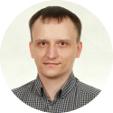
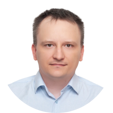
портфолио, цитаты, фотка

diff --git a/public/portfolio/portfolio.html b/public/portfolio/portfolio.html
@@ -1,0 +1,251 @@
+
+<html lang="ru">
+  <head>
+    <meta charset="UTF-8"/>
+    <meta http-equiv="x-ua-compatible" content="ie=edge"/>
+    <meta name="robots" content="all"/>
+    <meta name="viewport" content="width=device-width, initial-scale=1"/>
+    <title>Портфолио Степанова Валерия</title>
+    <link rel="shortcut icon" type="image/png" href="img/favicon_star.png"/>
+    <link rel="stylesheet" type="text/css" href="css/portfolio.css"/>
+  </head>
+  <body class="c-btstrp-clearing">
+    <header>
+      <div class="c-portfolio-nav c-portfolio-button c-portfolio-button-b" id="id-nav">
+        <ul>
+          <li><a href="#id-features"> 
+              <p>Преимущества</p></a></li>
+          <li><a href="#id-skills">
+              <p>Навыки</p></a></li>
+          <li><a href="#id-examples">
+              <p>Примеры</p></a></li>
+          <li><a href="#id-kb">
+              <p>БЗ</p></a></li>
+          <li><a href="#id-contacts">
+              <p>Контакты</p></a></li>
+        </ul>
+      </div>
+    </header>
+    <main>
+      <div class="c-portfolio-teaser-background">
+        <div class="c-btstrp-container c-btstrp-row" id="id-container-main">
+          <div class="c-portfolio-teaser-text c-portfolio-header">
+            <div class="c-portfolio-vert-align">
+              <div class="c-portfolio-teaser-img"><img src="img/stepanovv_round_thumb.png" alt="Thumbnail"/></div>
+              <h1>Портфолио Степанова Валерия
+                <p class="c-portfolio-text-b">Версия:&nbsp;<a id="id-version" target="_blank" href="https://gitlab.com/stepanovv/kbo/-/merge_requests?scope=all&amp;state=merged">DEV: Ср 22 апр 2026 14:32:20 #886eb00
+</a></p>
+              </h1>
+            </div>
+          </div>
+        </div>
+      </div>
+      <div class="c-btstrp-container">
+        <noscript>
+          <div class="c-portfolio-header-spacer"></div>
+          <div class="c-btstrp-row c-portfolio-header">
+            <div class="alert alert-danger" role="alert"><strong>Warning!</strong> Please, enable JavaScript to see correct
+                                          markup.
+            </div>
+          </div>
+        </noscript><a class="c-portfolio-anchor-offset" id="id-features"></a>
+        <section class="c-portfolio-features">
+          <div class="c-btstrp-row c-portfolio-header">
+            <h2 class="c-portfolio-spacer-l1">Мои преимущества:</h2>
+          </div>
+          <div class="c-btstrp-row c-portfolio-features-list c-portfolio-text-b">
+            <ul>
+                          <li><i class="icon-handshake-o"></i>
+                            <p>люблю помогать коллегам, обмениваться опытом</p>
+                          </li>
+                          <li><i class="icon-heart"></i>
+                            <p>приятен в общении, серьёзный опыт экстремального спорта и активных увлечений</p>
+                          </li>
+                          <li><i class="icon-sitemap"></i>
+                            <p>умею изобретать, анализировать и проектировать, использую системное мышление</p>
+                          </li>
+                          <li>
+                            <svg class="icon">
+                              <use href="img/git-square.svg#icon-git-square"></use>
+                            </svg>
+                            <p>пишу статьи в блоге и классную документацию, создаю и развиваю онлайн сообщества</p>
+                          </li>
+                          <li><i class="icon-comments"></i>
+                            <p>грамотная устная и письменная русская речь, upper-intermediate(B2) speaking english level</p>
+                          </li>
+                          <li><i class="icon-line-chart"></i>
+                            <p>постоянно учусь: математика/LLM, аналитика/продукт, software development, architecture/devops</p>
+                          </li>
+                          <li><i class="icon-gears"></i>
+                            <p>более 10 лет работы в ИТ: проектирование, разработка, внедрение/интеграция, сопровождение</p>
+                          </li>
+            </ul>
+          </div>
+          <div class="c-portfolio-divider"></div>
+        </section><a class="c-portfolio-anchor-offset" id="id-skills"></a>
+        <section class="c-portfolio-skills">
+          <div class="c-btstrp-row c-portfolio-header">
+            <h2 class="c-portfolio-spacer-l1">Навыки:</h2>
+          </div>
+          <div class="c-btstrp-row c-portfolio-skills c-btstrp-link-clear c-portfolio-button c-portfolio-button-b">
+            <ul>
+              <li><a target="_blank" href="https://gitlab.com/stepanovv/articles-product/-/blob/master/сантех_умник/продуктовая_аналитика.md">
+                  <p>Продуктовая аналитика</p></a></li>
+              <li><a target="_blank" href="https://gitlab.com/stepanovv/articles-manager/-/blob/master/менеджмент/README.md">
+                  <p>Менеджмент</p></a></li>
+              <li><a target="_blank" href="https://gitlab.com/stepanovv/articles-product/-/blob/master/сантех_умник/финансы.md">
+                  <p>Юнит-экономика</p></a></li>
+              <li><a target="_blank" href="https://gitlab.com/stepanovv/articles-manager/-/blob/master/теория/проектирование.md">
+                  <p>Проектирование</p></a></li>
+              <li><a target="_blank" href="https://gitlab.com/stepanovv/devops-infra/-/blob/master/README.md">
+                  <p>Инфраструктура</p></a></li>
+              <li><a target="_blank" href="/kbo/#/kb/frontend/typescript">
+                  <p>TS</p></a></li>
+              <li><a target="_blank" href="https://gitlab.com/stepanovv/kbo/-/blob/master/src/app/portfolio/">
+                  <p>HTML5/PUG</p></a></li>
+              <li><a target="_blank" href="https://gitlab.com/stepanovv/kbo/-/blob/master/src/app/portfolio/portfolio.styl">
+                  <p>CSS3/LESS/STYLUS</p></a></li>
+              <li><a target="_blank" href="/kbo/#/kb/frontend/framework/angular2">
+                  <p>Angular5+</p></a></li>
+              <li><a target="_blank" href="/kbo/#/kb/frontend/git">
+                  <p>GIT</p></a></li>
+              <li><a target="_blank" href="/kbo/#/kb/backend/nodejs">
+                  <p>NodeJS</p></a></li>
+              <li><a target="_blank" href="/kbo/#/kb/frontend/framework/vue">
+                  <p>VueJS</p></a></li>
+              <li><a target="_blank" href="https://gitlab.com/stepanovv/kbo/-/blob/master/gulpfile.babel.js">
+                  <p>Gulp</p></a></li>
+              <li><a target="_blank" href="/kbo/#/kb/admin/devops?id=webpack">
+                  <p>Webpack</p></a></li>
+              <li><a target="_blank" href="/kbo/#/kb/conventions/jira">
+                  <p>JIRA</p></a></li>
+              <li><a target="_blank" href="/kbo/#/kb/admin/redmine">
+                  <p>Redmine</p></a></li>
+              <li><a target="_blank" href="https://gitlab.com/stepanovv/articles-manager/-/blob/master/менеджмент/совместная_работа.md">
+                  <p>Trello</p></a></li>
+              <li><a target="_blank" href="/kbo/#/kb/admin/bash">
+                  <p>Bash</p></a></li>
+              <li><a target="_blank" href="/kbo/#/kb/admin/docker">
+                  <p>Docker</p></a></li>
+              <li><a target="_blank" href="/kbo/#/kb/инструменты/vscode.md">
+                  <p>VSCode</p></a></li>
+              <li><a target="_blank" href="/kbo/#/kb/admin/zabbix">
+                  <p>Zabbix</p></a></li>
+              <li><a target="_blank" href="/kbo/#/kb/frontend/design?id=material-design">
+                  <p>Material</p></a></li>
+            </ul>
+            <div class="c-portfolio-divider"></div>
+          </div>
+        </section><a class="c-portfolio-anchor-offset" id="id-examples"></a>
+        <section class="c-portfolio-examples">
+          <div class="c-btstrp-row c-portfolio-header">
+            <h2 class="c-portfolio-spacer-l1">Примеры работ:</h2>
+          </div>
+          <div class="c-btstrp-row">
+            <div class="c-portfolio-examples-content c-portfolio-thumbnails">
+              <ul>
+                                <li><a href="https://gitlab.com/stepanovv/articles-product/-/blob/master/сантех_умник/диплом.md" target="_blank"><img src="img/markdown.jpg" alt="Thumbnail of screenshot"/>
+                                    <div class="c-portfolio-thumbnail-label c-portfolio-text-b">
+                                      <p>Текст: продуктовая аналитика в домене инженерной сантехники</p>
+                                    </div></a></li>
+                                <li><a href="https://gitlab.com/stepanovv/articles-product/-/blob/master/давай_поучимся/продуктовая_аналитика.md" target="_blank"><img src="img/markdown.jpg" alt="Thumbnail of screenshot"/>
+                                    <div class="c-portfolio-thumbnail-label c-portfolio-text-b">
+                                      <p>Текст: продуктовая аналитика в домене онлайн образования</p>
+                                    </div></a></li>
+                                <li><a href="https://gitlab.com/stepanovv/kbo/-/blob/master/public/articles/public/страшная%20сила%20красоты/страшная%20сила%20красоты.md#универсальный-диалект-схема-данных" target="_blank"><img src="img/markdown.jpg" alt="Thumbnail of screenshot"/>
+                                    <div class="c-portfolio-thumbnail-label c-portfolio-text-b">
+                                      <p>Текст: API центричный подход к проектированию</p>
+                                    </div></a></li>
+                                <li><a href="https://gitlab.com/stepanovv/articles-manager/-/blob/master/техника/хранилище.md#оптимизация-стэка-хранения" target="_blank"><img src="img/markdown.jpg" alt="Thumbnail of screenshot"/>
+                                    <div class="c-portfolio-thumbnail-label c-portfolio-text-b">
+                                      <p>Текст: анализ стэка хранения данных</p>
+                                    </div></a></li>
+                                <li><a href="https://gitlab.com/stepanovv/articles-manager/-/blob/master/техника/доступность.md#непрерывность" target="_blank"><img src="img/markdown.jpg" alt="Thumbnail of screenshot"/>
+                                    <div class="c-portfolio-thumbnail-label c-portfolio-text-b">
+                                      <p>Текст: business continuity management</p>
+                                    </div></a></li>
+                                <li><a href="https://gitlab.com/stepanovv/code_quality_js/-/tree/master" target="_blank"><img src="img/gh_code_thumb.jpeg" alt="Thumbnail of screenshot"/>
+                                    <div class="c-portfolio-thumbnail-label c-portfolio-text-b">
+                                      <p>Проверка качества кода</p>
+                                    </div></a></li>
+                                <li><a href="https://gitlab.com/stepanovv/webpack-dep-graph/-/tree/master" target="_blank"><img src="img/gh_code_thumb.jpeg" alt="Thumbnail of screenshot"/>
+                                    <div class="c-portfolio-thumbnail-label c-portfolio-text-b">
+                                      <p>Граф из webpack stats.json</p>
+                                    </div></a></li>
+                                <li><a href="https://stackblitz.com/edit/rxjs-aj4vwd" target="_blank"><img src="img/stb_code_thumb.jpeg" alt="Thumbnail of screenshot"/>
+                                    <div class="c-portfolio-thumbnail-label c-portfolio-text-b">
+                                      <p>Код-справочник RxJS</p>
+                                    </div></a></li>
+                                <li><a href="https://stackblitz.com/edit/rxjs-pqnejm-async" target="_blank"><img src="img/stb_code_thumb.jpeg" alt="Thumbnail of screenshot"/>
+                                    <div class="c-portfolio-thumbnail-label c-portfolio-text-b">
+                                      <p>Код-справочник асинхронного JS</p>
+                                    </div></a></li>
+                                <li><a href="timer.html" target="_blank"><img src="img/timer_preview1_thumb.jpeg" alt="Thumbnail of screenshot"/>
+                                    <div class="c-portfolio-thumbnail-label c-portfolio-text-b">
+                                      <p>Таймер «POMODORO»</p>
+                                    </div></a></li>
+                                <li><a href="quotes.html" target="_blank"><img src="img/quotes_preview1_thumb.jpeg" alt="Thumbnail of screenshot"/>
+                                    <div class="c-portfolio-thumbnail-label c-portfolio-text-b">
+                                      <p>Генератор цитат с твитами</p>
+                                    </div></a></li>
+                                <li><a href="weather.html" target="_blank"><img src="img/weather_preview1_thumb.jpeg" alt="Thumbnail of screenshot"/>
+                                    <div class="c-portfolio-thumbnail-label c-portfolio-text-b">
+                                      <p>Погода за окном на VueJS</p>
+                                    </div></a></li>
+              </ul>
+            </div>
+          </div>
+          <div class="c-portfolio-divider"></div>
+        </section><a class="c-portfolio-anchor-offset" id="id-kb"></a>
+        <section class="c-portfolio-kb">
+          <div class="c-btstrp-row c-portfolio-header">
+            <h2 class="c-portfolio-spacer-l1">База знаний:</h2>
+          </div>
+          <div class="c-btstrp-row c-portfolio-skills c-btstrp-link-clear c-portfolio-button c-portfolio-button-b">
+            <ul>
+              <li><a target="_blank" href="https://gitlab.com/stepanovv/articles-manager/-/tree/master">
+                  <p>БЗ техменеджера</p></a></li>
+              <li><a target="_blank" href="https://gitlab.com/stepanovv/articles-product/-/tree/master">
+                  <p>БЗ продакта</p></a></li>
+              <li><a target="_blank" href="/kbo">
+                  <p>БЗ программиста</p></a></li>
+              <li><a target="_blank" href="/kbb">
+                  <p>БЗ человека-мужика</p></a></li>
+              <li><a target="_blank" href="https://gitlab.com/stepanovv/articles-manager/-/blob/master/карьера/резюме-менеджер.md">
+                  <p>Резюме</p></a></li>
+              <li><a target="_blank" href="https://stepanovv.ru/articles/index.html">
+                  <p>Мои статьи</p></a></li>
+              <li><a target="_blank" href="https://t.me/stepanovv_ru_kb">
+                  <p>Мой блог</p></a></li>
+            </ul>
+          </div>
+          <div class="c-portfolio-divider"></div>
+        </section><a class="c-portfolio-anchor-offset" id="id-contacts"></a>
+        <section class="c-portfolio-contacts">
+          <div class="c-btstrp-row c-portfolio-header">
+            <h2 class="c-portfolio-spacer-l1">Контакты:</h2>
+          </div>
+          <div class="c-btstrp-row c-portfolio-button c-portfolio-button-b">
+            <ul>
+              <li>
+                <button onclick="copyToClipboard('stepanovv.ru@yandex.ru')"><i class="icon-envelope"></i>
+                  <p>Скопировать адрес</p>
+                </button>
+              </li>
+                          <li><a href="mailto:stepanovv.ru@yandex.ru?Subject=Заинтересовались%20вашим%20портфолио" target="_blank"><i class="icon-envelope-o"></i>
+                              <p>Написать письмо</p></a></li>
+                          <li><a href="https://t.me/stepanovv_ru" target="_blank">
+                              <svg class="icon">
+                                <use href="img/telegram-rounded-black.svg#telegram-rounded-black"></use>
+                              </svg>
+                              <p>Написать в TG</p></a></li>
+            </ul>
+          </div>
+          <div class="c-portfolio-divider"></div>
+        </section>
+        <section class="c-portfolio-footer-spacer"></section>
+      </div>
+    </main>
+  </body>
+  <script type="text/javascript" src="js/portfolio.js"></script>
+</html>

diff --git a/public/index.html b/public/index.html
@@ -17,8 +17,9 @@
 	<li><a href='https://gitlab.com/stepanovv/kbo/merge_requests?state=merged'>Новости проекта</a></li>
 	<li><a href='/kbo/'>База знаний программиста</a></li>
 	<li><a href='/kbb/'>База знаний человека-мужика</a></li>
-	<li><a href='https://gitlab.com/stepanovv/articles-product/-/tree/master'>База знаний предпринимателя-продакта</a></li>
-	<li><a href='https://gitlab.com/stepanovv/articles-manager/-/tree/master'>База знаний руководителя разработки</a></li>
+	<li><a href='https://gitlab.com/stepanovv/articles-product/-/blob/master/README.md'>База знаний предпринимателя-продакта</a></li>
+	<li><a href='https://gitlab.com/stepanovv/articles-manager/-/blob/master/README.md'>База знаний руководителя разработки</a></li>
+	<li><a href='https://gitlab.com/stepanovv/devops-infra/-/blob/master/README.md'>База знаний devops</a></li>
 	<li><a href='https://medium.com/@stepanovv.ru'>Статьи на medium</a></li>
 	<li><a href='https://gitlab.com/stepanovv/kbo/-/tree/master/public/articles'>Статьи в markdown</a></li>
 	<li><a href='/medium/index.html'>Архив статей medium в HTML</a></li>

diff --git a/public/kbo/kb/admin/devops.md b/public/kbo/kb/admin/devops.md
@@ -1,5 +1,6 @@
 #  devops
 
+ * [отдельная БЗ](https://gitlab.com/stepanovv/devops-infra/-/blob/master/README.md)
  * https://www.redhat.com/sysadmin/
  * [утилиты документирования](https://github.com/documentationjs)
 * где посмотреть ограничения технологий, их предельную нагрузку? ноды, события, потоки
